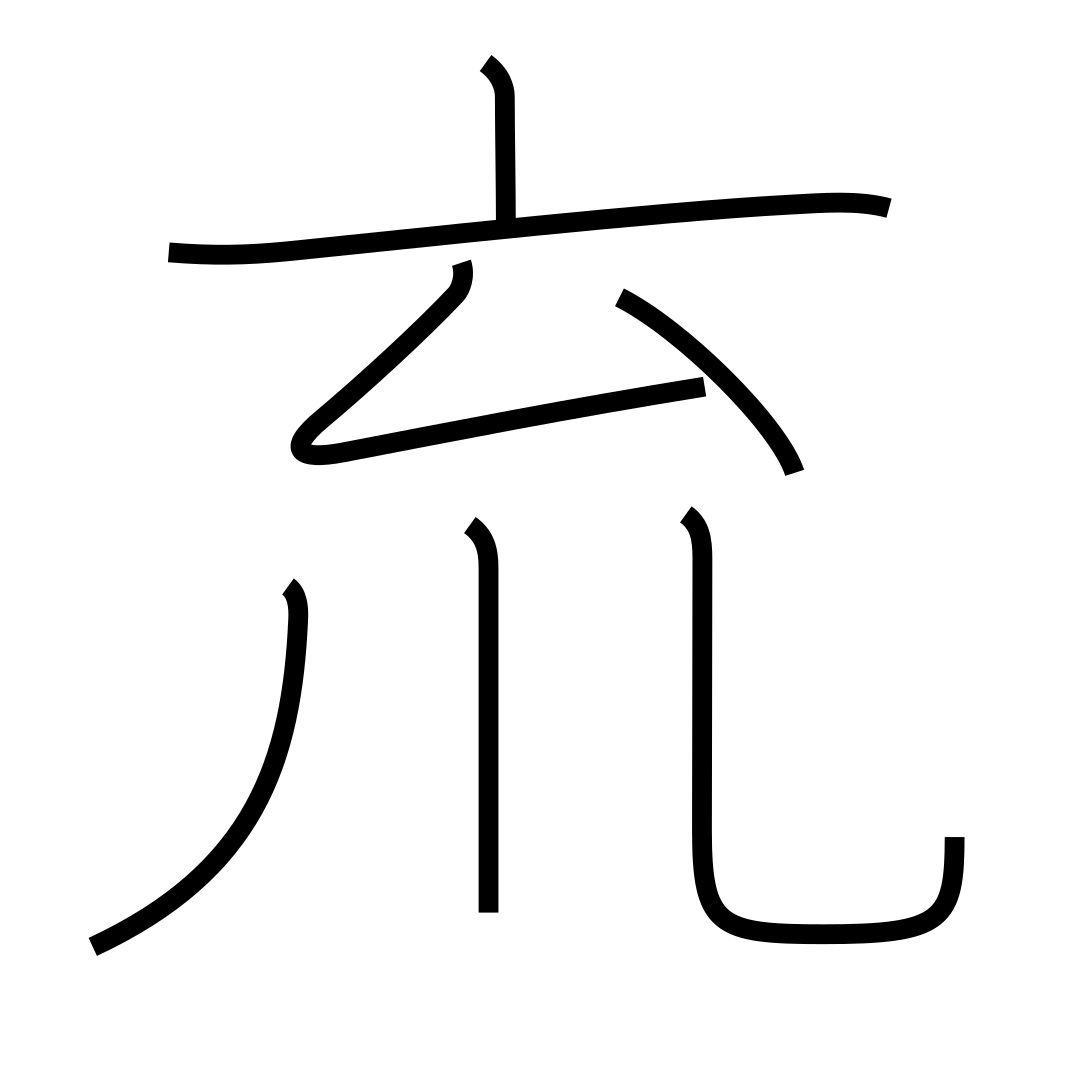
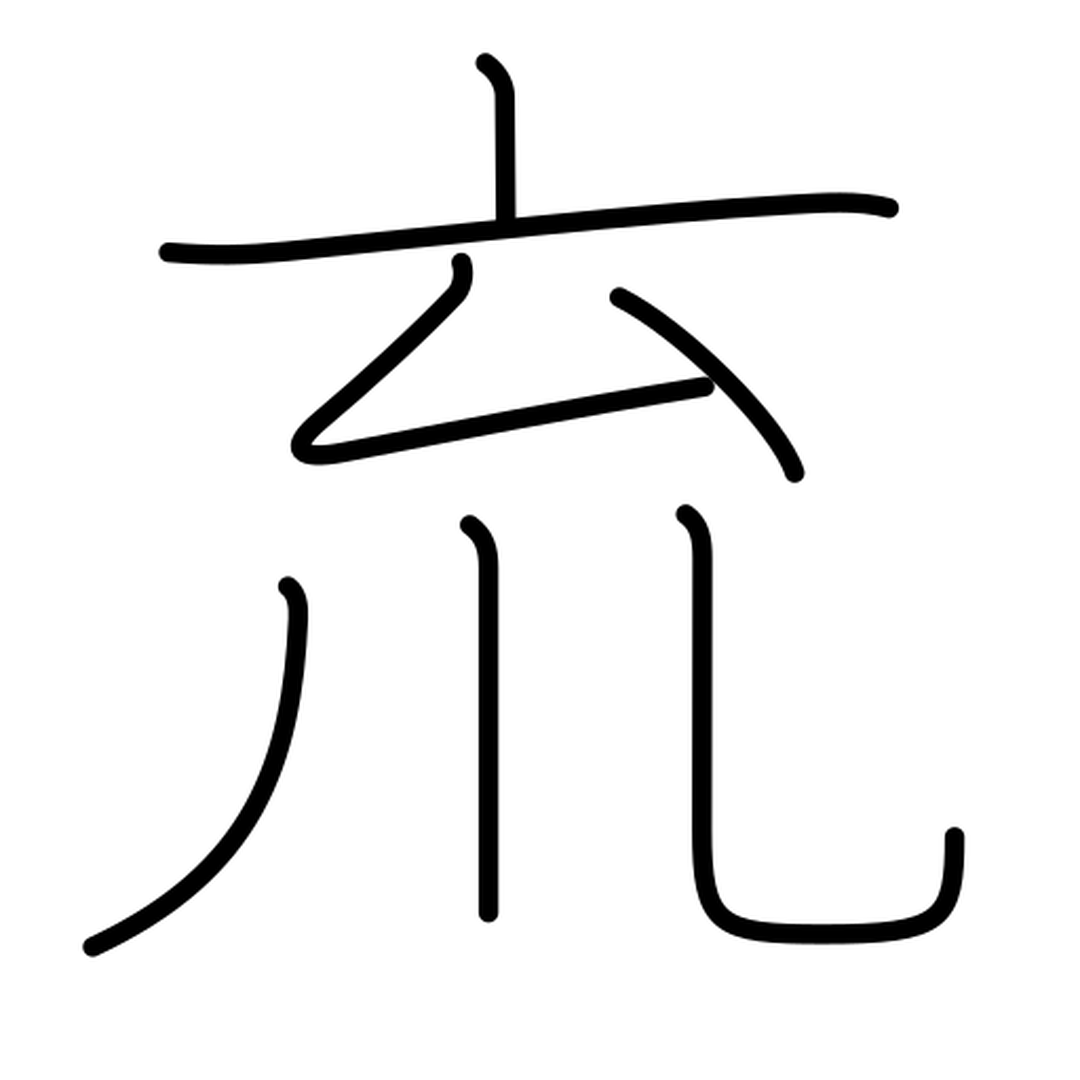
update renderer

diff --git a/render.py b/render.py
@@ -5,10 +5,9 @@ import io
 
 
 def collect_paths(elem):
-    """Recursively collect all <path> elements, stripping namespaces."""
     paths = []
     for child in elem:
-        tag = child.tag.split("}")[-1]  # remove namespace
+        tag = child.tag.split("}")[-1]
         if tag == "path":
             paths.append(child)
         elif tag == "g":
@@ -17,54 +16,38 @@ def collect_paths(elem):
 
 
 def render_kanji_svg_to_png(kanji_element, size=128):
-    """
-    Convert a KanjiVG <kanji> element to a high-quality grayscale PNG.
-    - White background
-    - Smooth strokes
-    - Antialiased when resizing
-    """
-    kanji_copy = ET.fromstring(ET.tostring(kanji_element))
+    """Render KanjiVG element to PNG with smooth strokes at higher resolution."""
 
-    # Strip namespaces
     def strip_ns(elem):
         elem.tag = elem.tag.split("}")[-1]
         for c in elem:
             strip_ns(c)
 
+    kanji_copy = ET.fromstring(ET.tostring(kanji_element))
     strip_ns(kanji_copy)
 
-    # Collect all <path> elements
     paths = collect_paths(kanji_copy)
     if not paths:
-        raise ValueError("No paths found in kanji element!")
+        raise ValueError("No paths found!")
 
-    # Build SVG content
-    svg_paths = ""
-    for p in paths:
-        d = p.attrib.get("d")
-        if d:
-            svg_paths += (
-                f'<path d="{d}" stroke="#000000" fill="none" stroke-width="2"/>'
-            )
+    svg_content = "".join(
+        f'<path d="{p.attrib["d"]}" stroke="#000" fill="none" stroke-width="2" '
+        f'stroke-linecap="round" stroke-linejoin="round"/>'
+        for p in paths
+    )
 
-    # Full SVG
+    # Render large internal canvas
+    internal_size = 512
     svg_data = f"""
-    <svg xmlns="http://www.w3.org/2000/svg" width="109" height="109" viewBox="0 0 109 109">
-        <rect width="109" height="109" fill="white"/>
-        {svg_paths}
+    <svg xmlns="http://www.w3.org/2000/svg" width="{internal_size}" height="{internal_size}" viewBox="0 0 109 109">
+        <rect width="100%" height="100%" fill="white"/>
+        {svg_content}
     </svg>
     """
 
-    # Render at higher resolution for smoothness
-    high_res = 1080
-    png_bytes = cairosvg.svg2png(
-        bytestring=svg_data.encode("utf-8"),
-        output_width=high_res,
-        output_height=high_res,
-    )
-
-    # Open with PIL, convert to grayscale, downscale with antialiasing
+    png_bytes = cairosvg.svg2png(bytestring=svg_data.encode("utf-8"))
     img = Image.open(io.BytesIO(png_bytes)).convert("L")
-    img = img.resize((size, size), Image.Resampling.LANCZOS)
 
+    # Resize down to target size with high-quality filter
+    img = img.resize((size, size), Image.LANCZOS)
     return img

diff --git a/main.py b/main.py
@@ -15,6 +15,10 @@ usable_pairs = build_usable_pairs(kanji_dict, kanjivg_root)
 print("Total usable pairs:", len(usable_pairs))
 print("Sample:", usable_pairs[0])
 
-first_pair = usable_pairs[0]
-img = render_kanji_svg_to_png(first_pair["kanjivg_element"], size=1080)
-img.save(f"images/{first_pair['char']}.png")
+# Batch render first 10 Kanji
+for pair in usable_pairs[:10]:
+    char = pair["char"]
+    kanji_elem = pair["kanjivg_element"]
+    img = render_kanji_svg_to_png(kanji_elem, 1080)
+    img.save(f"images/{char}.png")
+    print(f"Saved {char}.png")
